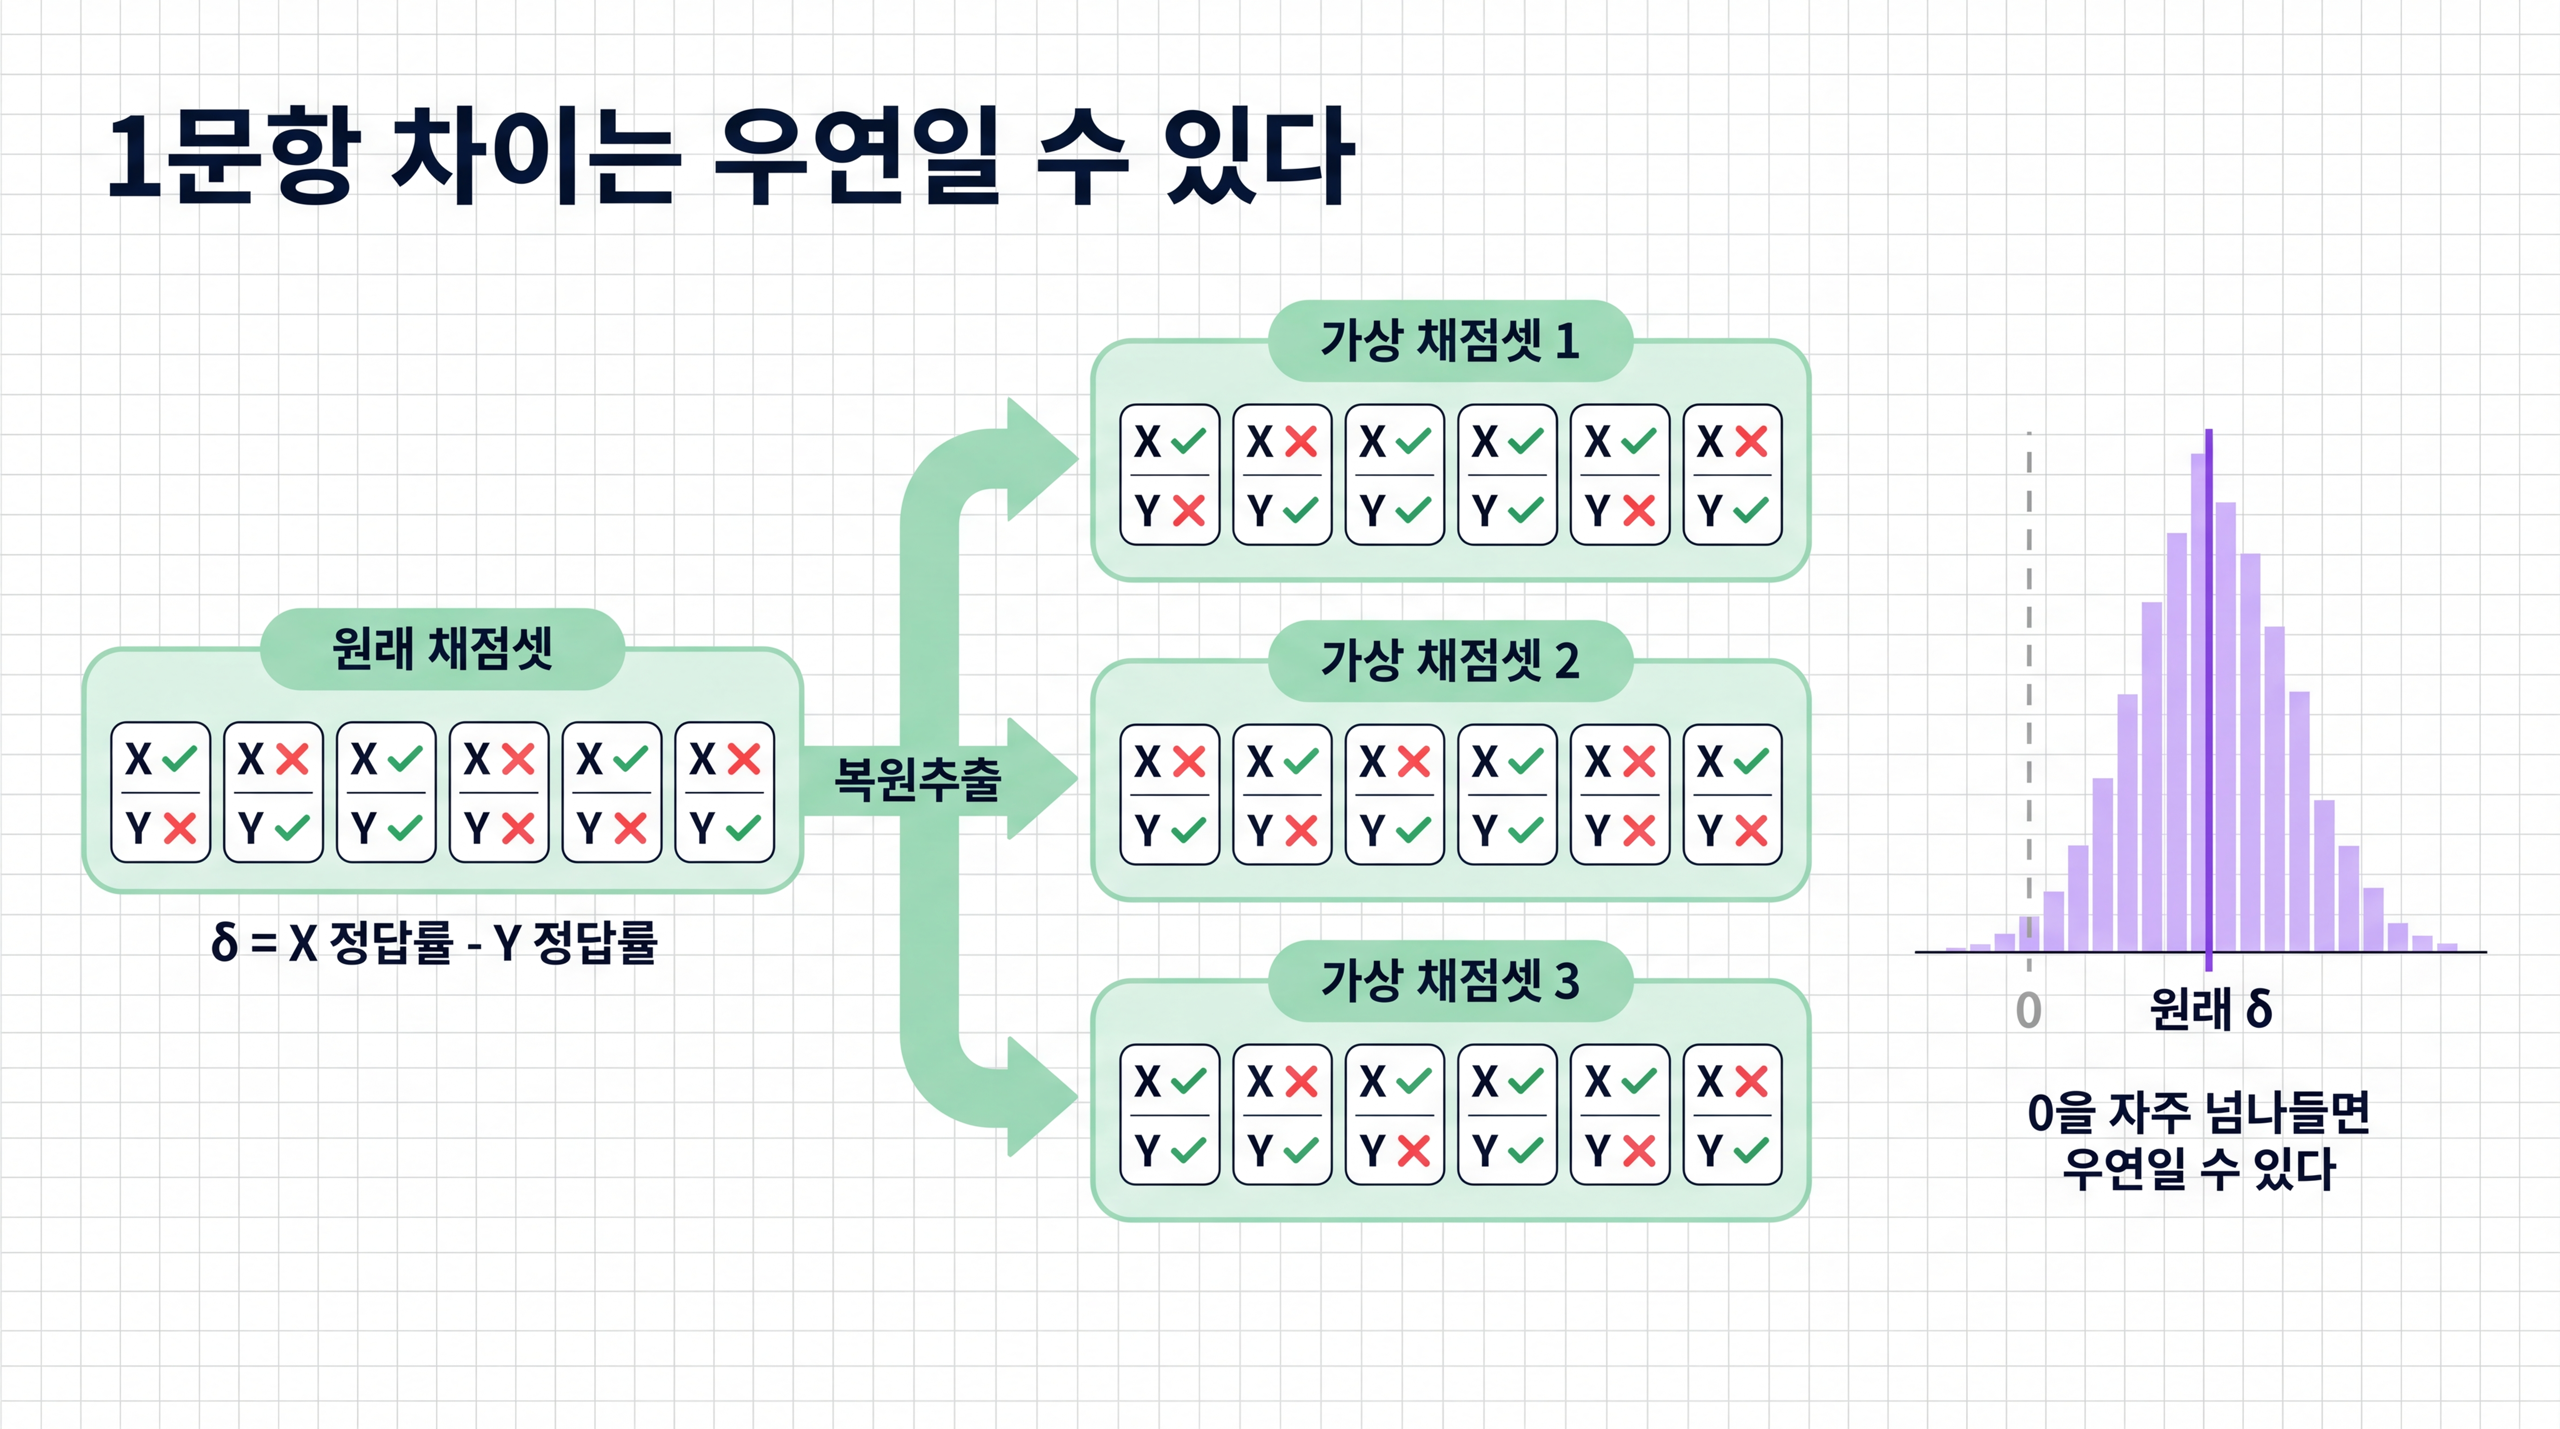
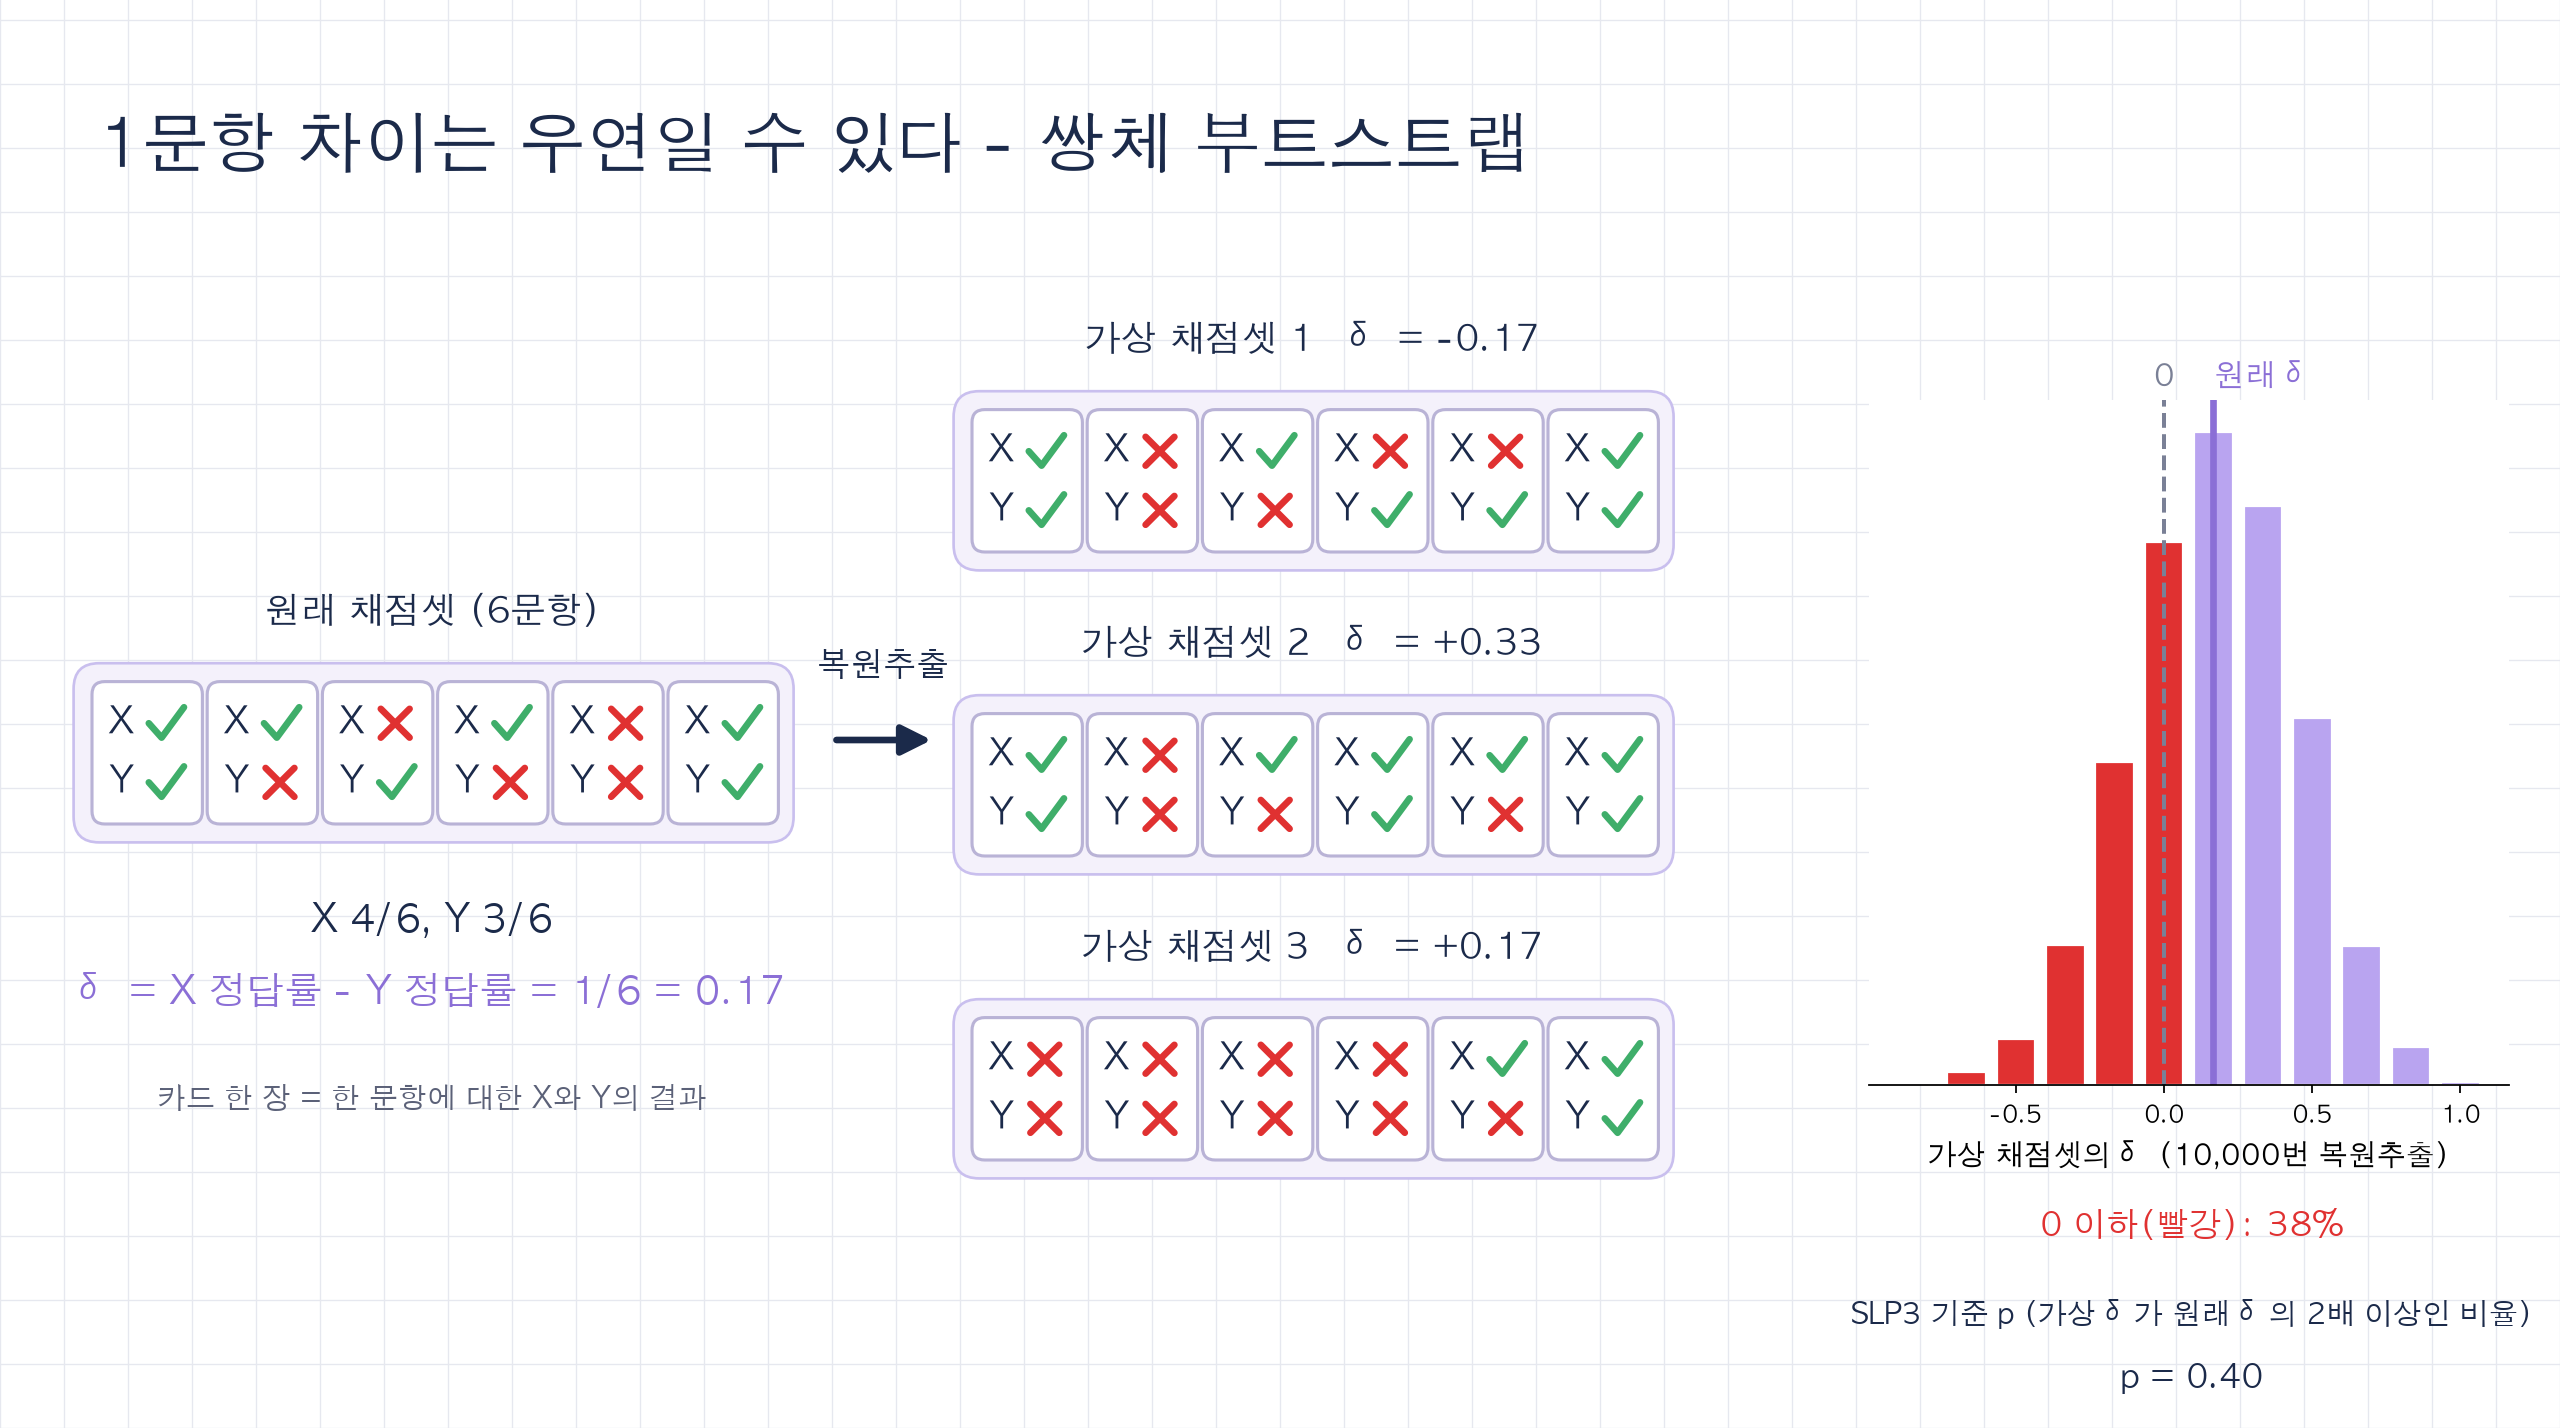
fix(week-05): redraw paired-bootstrap figure from real resamples
OCR delegation review (head 3548ef1) found one Important issue: the
generated figure's original set read X 3/6 vs Y 3/6 (delta 0) while the
histogram centred on a positive delta, teaching the bootstrap picture
wrongly. Image generation cannot guarantee the card combination, so the
figure is now drawn with matplotlib from fixed cards (X 4/6, Y 3/6) and
actual resamples (seed 42): three shown sets, 10,000-sample delta
distribution, 38% at or below 0, SLP3 p = 0.40. The lecture cites these
values.

Review nits:
- notebook cell 18 lists three points, not two
- PassAtKCurve new-capability message no longer claims the pre-training
  curve sits near 0.30 at small k
- REVIEW.md feedback heading names AGENTS.md

Claude-Session: https://claude.ai/code/session_01VWvoHA5EVxyGa7Yehh7825

diff --git a/src/assets/weeks/week-05/prompts.md b/src/assets/weeks/week-05/prompts.md
@@ -28,7 +28,7 @@ CLI 결과의 `_min.webp`는 미리보기본이므로 쓰지 않고 원본 `.png
 | prompt-a-confusion.png | 4주차 프롬프트 A의 실측 혼동행렬과 재현율 | 1차 통과. 칸 숫자 8/0/0, 0/8/0, 0/4/4와 재현율 1.00/1.00/0.50이 노트북 출력과 일치 확인 |
 | token-f1-trap.png | exact match와 token F1, 뜻이 반대인데 같은 점수 | 1차본은 정답 카드 끝에 마침표, 2차본은 "바로"에까지 밑줄(겹친 단어 수 오표시). 밑줄이 정확한 1차본에서 마침표만 배경색으로 지워 채택 |
 | dev-test-split.png | 개발셋, 시험셋, 5묶음 교차검증 | 1차 통과 |
-| paired-bootstrap.png | 쌍체 부트스트랩 (복원추출과 δ 분포) | 1차본 원래 채점셋 8장 대 가상 채점셋 7장(크기 불일치). 2차본 카드마다 A/B 중 하나만 표시(쌍체 아님). 3차본은 카드 6장(4/6 대 3/6, δ = 0.17)에 δ = 0.04 라벨이라 모순(검토에서 지적). 4차본은 프롬프트의 설명 문장이 그림 속 영어 글자로 찍힘. 5차본에서 후보 X/Y, 캡션을 공식(δ = X 정답률 - Y 정답률)으로 바꿔 카드 내용과 무관하게 참이 되게 하고 채택. 2차 생성 중 1회 job failed(원인 미표시) 후 재시도 성공 |
+| (폐기) paired-bootstrap.png 생성본 | 쌍체 부트스트랩 | 1차본 원래 채점셋 8장 대 가상 채점셋 7장(크기 불일치). 2차본 카드마다 A/B 중 하나만 표시(쌍체 아님). 3차본은 카드 6장(4/6 대 3/6, δ = 0.17)에 δ = 0.04 라벨이라 모순(검토에서 지적). 4차본은 프롬프트의 설명 문장이 그림 속 영어 글자로 찍힘. 5차본은 캡션을 공식으로 바꿨으나 카드가 X 3/6 대 Y 3/6(δ = 0)인데 분포가 양수 δ 중심이라 OCR 리뷰에서 Important로 지적. 생성 이미지로는 카드 조합을 보장할 수 없어 matplotlib 그림으로 교체(아래 표). 2차 생성 중 1회 job failed(원인 미표시) 후 재시도 성공 |
 | judge-false-acceptance.png | 정답지 없는 judge가 실제로 묻는 것 | 1차 통과. 확률 0.7/0.3은 설명용 예시(실측 범위 0.62~0.75 안) |
 | supervision-signals.png | 감독 신호 셋은 교차 대조를 거쳐야 참값 | 1차 통과 |
 | pass-at-k-estimator.png | 무편 추정량 n=20, c=2의 k=2 계산 | 1차 통과. 18/20 x 17/19 = 0.805, pass@2 = 0.195 본문과 일치 확인 |
@@ -36,13 +36,14 @@ CLI 결과의 `_min.webp`는 미리보기본이므로 쓰지 않고 원본 `.png
 
 ## 이미지 자산 (실측 데이터 그래프)
 
-생성 이미지는 수치 위치가 정확하지 않을 수 있으므로, 실측값을 그대로 보여야 하는 그래프 2장은
+생성 이미지는 수치 위치가 정확하지 않을 수 있으므로, 실측값이나 정확한 조합을 보여야 하는 그래프 3장은
 `notebooks/week-05.ipynb`의 코드(시드 42, n = 200)를 그대로 실행한 값으로 matplotlib에서 그렸다.
 글꼴 AppleGothic, 색은 위 공통 스타일 팔레트에 맞췄다. 2560x1428.
 
 | 파일 | 용도 | 값 |
 |---|---|---|
 | judge-prob-ranges.png | 0.6B judge의 P(정답) 분포, 정답지 유무 비교 | 정답지 없음: 맞은 20건 0.70~0.92, 틀린 4건 0.62~0.75. 정답지 포함: 0.95~0.99, 0.76~0.80 |
+| paired-bootstrap.png | 쌍체 부트스트랩, 6문항 X 4/6 대 Y 3/6 | 카드 조합을 코드로 고정하고 실제로 복원추출(시드 42). 가상 채점셋 3개 δ -0.17, +0.33, +0.17. 1만 번 중 δ <= 0 비율 38%, SLP3 p = 0.40 |
 | passk-prompt-ab.png | 프롬프트 A와 B의 pass@k 곡선 (k = 1~200) | B pass@1 0.64, A가 k = 15에서 도달, A@20 0.71, B@20 1.00, A@200 0.92 |
 
 ## 인터랙티브 컴포넌트

diff --git a/REVIEW.md b/REVIEW.md
@@ -32,7 +32,7 @@ Report at most 5 nits per review; summarize the rest as a count.
 - Generated paths: `dist/`, `.astro/`, `node_modules/`, `pnpm-lock.yaml`.
 - Anything CI already enforces: assignment folder checks (`check-assignment.yml`). The site build (`deploy.yml`) runs only after merge to `main`, so it is not enforced on a PR; a course-material PR must state that `make build` passes.
 
-## Feedback into CLAUDE.md
+## Feedback into AGENTS.md
 
 When the same finding appears twice, the correction goes into `AGENTS.md` in the same PR.
 
